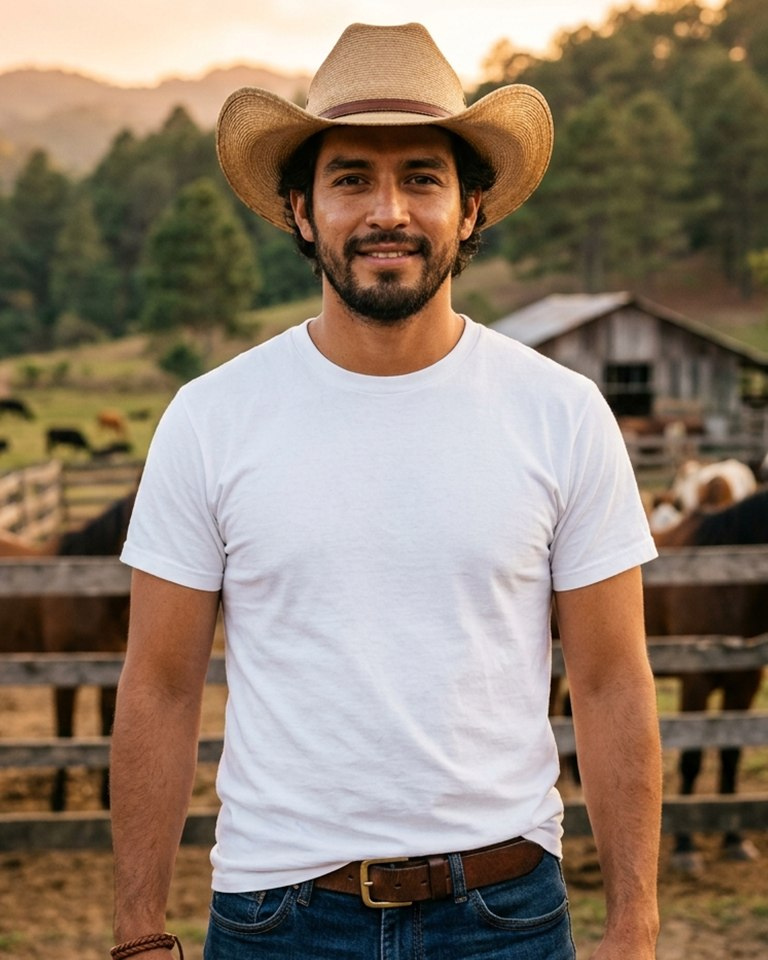
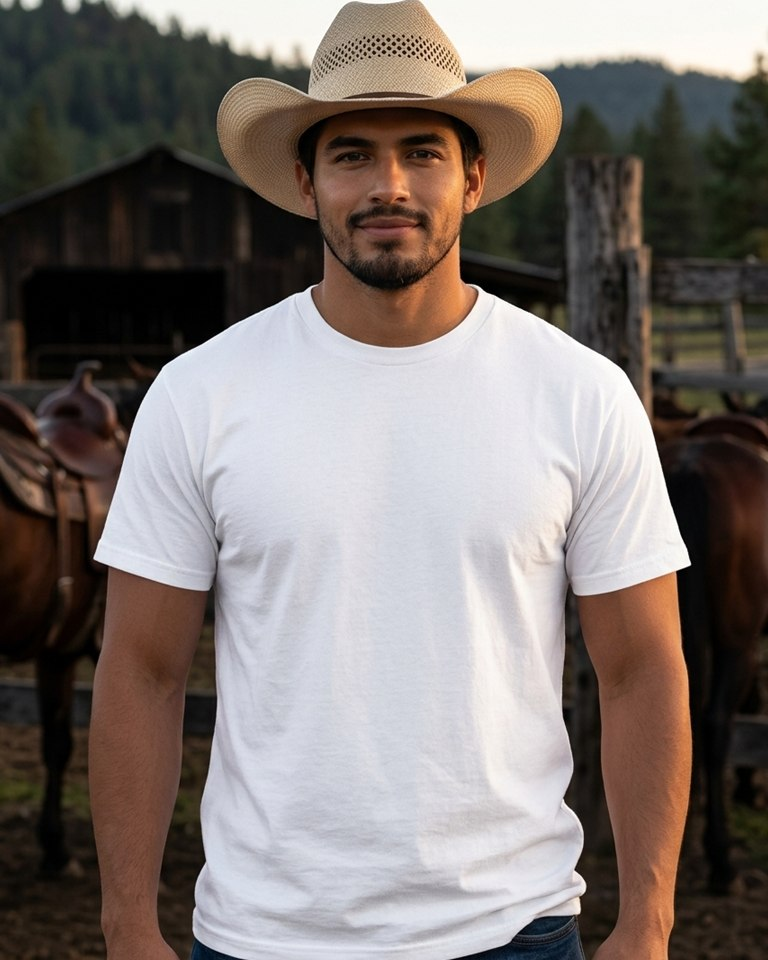
fix: lower mockup print height and upgrade ranchero front regular-fit model

diff --git a/src/components/ModelMockupCanvas.tsx b/src/components/ModelMockupCanvas.tsx
@@ -33,14 +33,14 @@ export const MOCKUP_SCENES: Record<MockupSceneId, MockupSceneConfig> = {
     chipLabel: '🤠 Rancho',
     tint: [1.02, 0.99, 0.95],
     back: {
-      photoUrl: '/mockups/ranchero-back.jpg?v=2',
-      maskUrl: '/mockups/ranchero-back-mask.png?v=2',
-      printBox: { x: 0.3238, y: 0.3718, w: 0.3785, h: 0.3755 }
+      photoUrl: '/mockups/ranchero-back.jpg?v=3',
+      maskUrl: '/mockups/ranchero-back-mask.png?v=3',
+      printBox: { x: 0.3238, y: 0.4252, w: 0.3785, h: 0.3755 }
     },
     front: {
-      photoUrl: '/mockups/ranchero-front.jpg?v=2',
-      maskUrl: '/mockups/ranchero-front-mask.png?v=2',
-      printBox: { x: 0.3343, y: 0.4204, w: 0.3406, h: 0.327 }
+      photoUrl: '/mockups/ranchero-front.jpg?v=3',
+      maskUrl: '/mockups/ranchero-front-mask.png?v=3',
+      printBox: { x: 0.3254, y: 0.447, w: 0.3635, h: 0.349 }
     }
   },
   cristiana: {
@@ -50,14 +50,14 @@ export const MOCKUP_SCENES: Record<MockupSceneId, MockupSceneConfig> = {
     chipLabel: '✝ Cristiana',
     tint: [1.01, 1.0, 0.98],
     back: {
-      photoUrl: '/mockups/cristiana-back.jpg?v=2',
-      maskUrl: '/mockups/cristiana-back-mask.png?v=2',
-      printBox: { x: 0.3373, y: 0.3806, w: 0.3214, h: 0.3188 }
+      photoUrl: '/mockups/cristiana-back.jpg?v=3',
+      maskUrl: '/mockups/cristiana-back-mask.png?v=3',
+      printBox: { x: 0.3373, y: 0.43, w: 0.3214, h: 0.3188 }
     },
     front: {
-      photoUrl: '/mockups/cristiana-front.jpg?v=2',
-      maskUrl: '/mockups/cristiana-front-mask.png?v=2',
-      printBox: { x: 0.353, y: 0.425, w: 0.324, h: 0.311 }
+      photoUrl: '/mockups/cristiana-front.jpg?v=3',
+      maskUrl: '/mockups/cristiana-front-mask.png?v=3',
+      printBox: { x: 0.353, y: 0.4645, w: 0.324, h: 0.311 }
     }
   },
   turistico: {
@@ -67,14 +67,14 @@ export const MOCKUP_SCENES: Record<MockupSceneId, MockupSceneConfig> = {
     chipLabel: '🇭🇳 Honduras',
     tint: [0.99, 1.0, 1.02],
     back: {
-      photoUrl: '/mockups/turistico-back.jpg?v=2',
-      maskUrl: '/mockups/turistico-back-mask.png?v=2',
-      printBox: { x: 0.3252, y: 0.3596, w: 0.3483, h: 0.3455 }
+      photoUrl: '/mockups/turistico-back.jpg?v=3',
+      maskUrl: '/mockups/turistico-back-mask.png?v=3',
+      printBox: { x: 0.3252, y: 0.415, w: 0.3483, h: 0.3455 }
     },
     front: {
-      photoUrl: '/mockups/turistico-front.jpg?v=2',
-      maskUrl: '/mockups/turistico-front-mask.png?v=2',
-      printBox: { x: 0.3362, y: 0.4145, w: 0.3458, h: 0.332 }
+      photoUrl: '/mockups/turistico-front.jpg?v=3',
+      maskUrl: '/mockups/turistico-front-mask.png?v=3',
+      printBox: { x: 0.3362, y: 0.456, w: 0.3458, h: 0.332 }
     }
   }
 };
@@ -428,7 +428,7 @@ export function ModelMockupCanvas({
   const sceneCfg = MOCKUP_SCENES[sceneId] || MOCKUP_SCENES.ranchero;
   const viewKey = placement === 'back' ? 'back' : 'front';
   const viewAsset = sceneCfg[viewKey];
-  const fullSceneKey = `${sceneCfg.id}-${viewKey}-v2`;
+  const fullSceneKey = `${sceneCfg.id}-${viewKey}-v3`;
 
   useEffect(() => {
     let cancelled = false;

diff --git a/vite.config.ts b/vite.config.ts
@@ -36,7 +36,7 @@ export default defineConfig({
             urlPattern: /\/mockups\//,
             handler: 'CacheFirst',
             options: {
-              cacheName: 'mockup-assets-v2',
+              cacheName: 'mockup-assets-v3',
               expiration: {
                 maxEntries: 20,
                 maxAgeSeconds: 60 * 60 * 24 * 30
